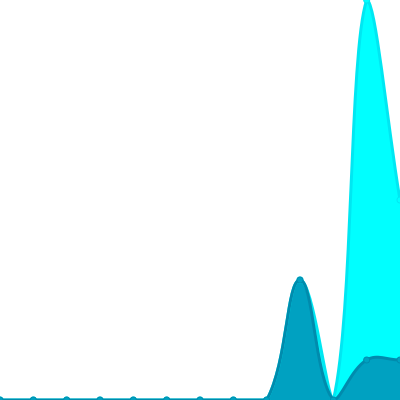
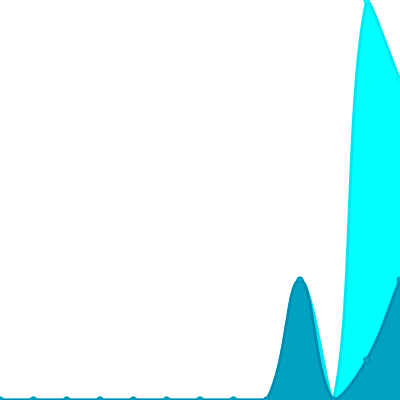
Update views

diff --git a/readme/407480595/year.md b/readme/407480595/year.md
@@ -23,10 +23,10 @@
 			<code>2022/7/1</code>
 		</td>
 		<td>
-			<code>1</code>
+			<code>3</code>
 		</td>
 		<td>
-			<code>5</code>
+			<code>8</code>
 		</td>
 	</tr>
 	<tr>
@@ -164,7 +164,7 @@
 </table>
 
 </details>
-<small><i>Last updated on 2022/7/18 12:10 PM UTC</i></small>
+<small><i>Last updated on 2022/7/18 6:07 PM UTC</i></small>
 
 ## ✂Copy and 📋 Paste
 ### SVG Badge

diff --git a/README.md b/README.md
@@ -117,7 +117,7 @@ The project created and maintained by [gayanvoice](https://github.com/gayanvoice
 	</tr>
 </table>
 
-<small><i>Last updated on 2022/7/18 12:11 PM UTC</i></small>
+<small><i>Last updated on 2022/7/18 6:07 PM UTC</i></small>
 
 ## ✂Copy and 📋 Paste
 ### Total Views Badge

diff --git a/readme/405877089/year.md b/readme/405877089/year.md
@@ -164,7 +164,7 @@
 </table>
 
 </details>
-<small><i>Last updated on 2022/7/18 12:10 PM UTC</i></small>
+<small><i>Last updated on 2022/7/18 6:06 PM UTC</i></small>
 
 ## ✂Copy and 📋 Paste
 ### SVG Badge

diff --git a/readme/407146012/year.md b/readme/407146012/year.md
@@ -164,7 +164,7 @@
 </table>
 
 </details>
-<small><i>Last updated on 2022/7/18 12:11 PM UTC</i></small>
+<small><i>Last updated on 2022/7/18 6:07 PM UTC</i></small>
 
 ## ✂Copy and 📋 Paste
 ### SVG Badge

diff --git a/readme/437118261/year.md b/readme/437118261/year.md
@@ -164,7 +164,7 @@
 </table>
 
 </details>
-<small><i>Last updated on 2022/7/18 12:10 PM UTC</i></small>
+<small><i>Last updated on 2022/7/18 6:06 PM UTC</i></small>
 
 ## ✂Copy and 📋 Paste
 ### SVG Badge

diff --git a/readme/442742397/year.md b/readme/442742397/year.md
@@ -164,7 +164,7 @@
 </table>
 
 </details>
-<small><i>Last updated on 2022/7/18 12:10 PM UTC</i></small>
+<small><i>Last updated on 2022/7/18 6:06 PM UTC</i></small>
 
 ## ✂Copy and 📋 Paste
 ### SVG Badge

diff --git a/readme/459752966/year.md b/readme/459752966/year.md
@@ -164,7 +164,7 @@
 </table>
 
 </details>
-<small><i>Last updated on 2022/7/18 12:10 PM UTC</i></small>
+<small><i>Last updated on 2022/7/18 6:06 PM UTC</i></small>
 
 ## ✂Copy and 📋 Paste
 ### SVG Badge
